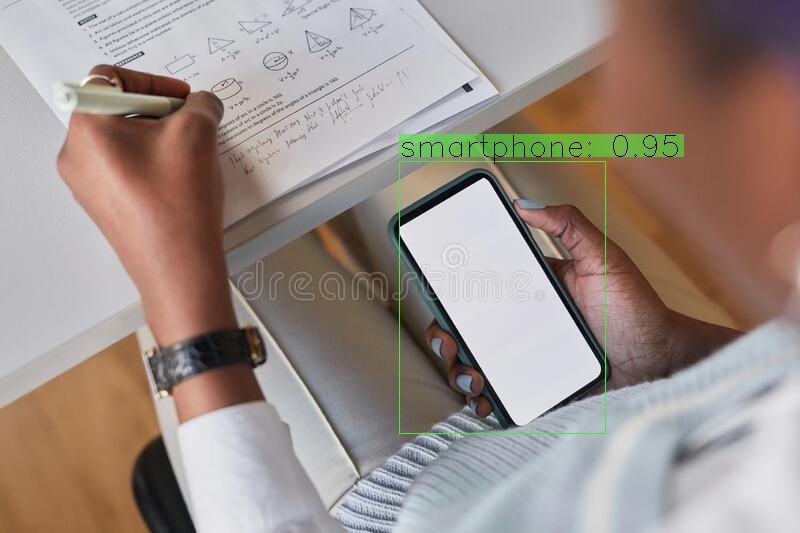
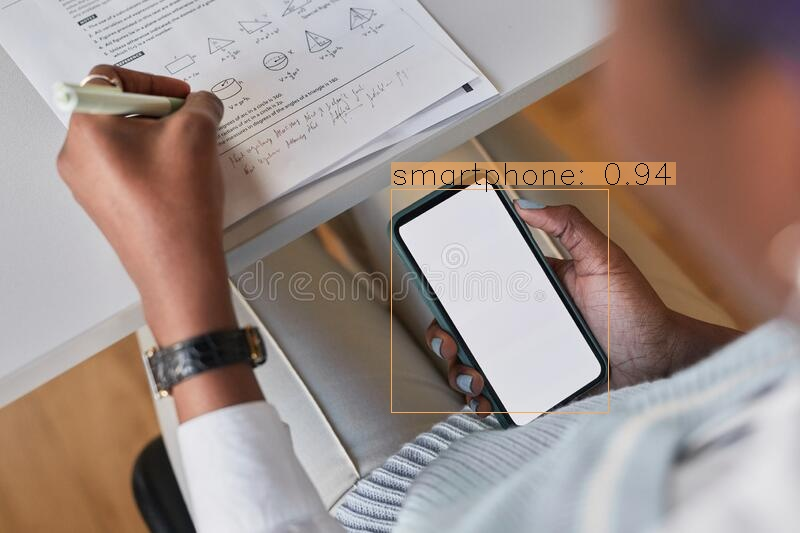
last changes

Changed region(s): [[0.4688, 0.2402, 0.875, 0.7805], [0.5, 0.8105, 0.75, 0.8405]]

diff --git a/yolov4/yolo_opencv.py b/yolov4/yolo_opencv.py
@@ -11,8 +11,8 @@ SCORE_THRESHOLD = 0.5
 IOU_THRESHOLD = 0.5
 
 config_path = "cfg/yolov4-custom.cfg"
-# weights_path = "weights/yolov4-custom_best.weights"
-weights_path = "weights/yolov4-custom_last.weights"
+weights_path = "weights/yolov4-custom_best.weights"
+# weights_path = "weights/yolov4-custom_last.weights"
 
 # loading all the class labels (objects)
 labels = open("data/obj.names").read().strip().split("\n")
@@ -120,4 +120,4 @@ for path_name in images:
     # if cv2.waitKey(0) == ord("q"):
     #     pass
 
-    cv2.imwrite(f"results/{filename}_yolo3.{ext}", image)
+    cv2.imwrite(f"results/{filename}_yolo3_best.{ext}", image)
